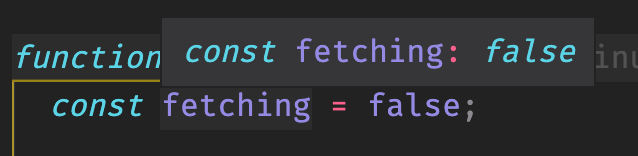
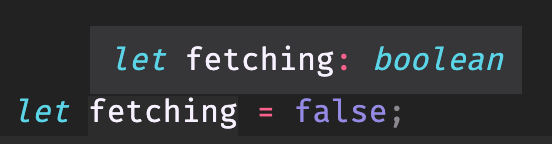
Update lesson

Changed region(s): [[0.0, 0.2222, 1.0, 1.0], [0.5236, 0.5833, 0.7391, 0.8889]]

diff --git a/01-syntax-and-ts-config/lesson/src/App.tsx b/01-syntax-and-ts-config/lesson/src/App.tsx
@@ -3,7 +3,7 @@ import logo from "./logo.svg";
 import "./App.css";
 
 function App() {
-  const fetching = false;
+  let fetching = false;
 
   if (fetching) {
     return <div>Loading...</div>;
